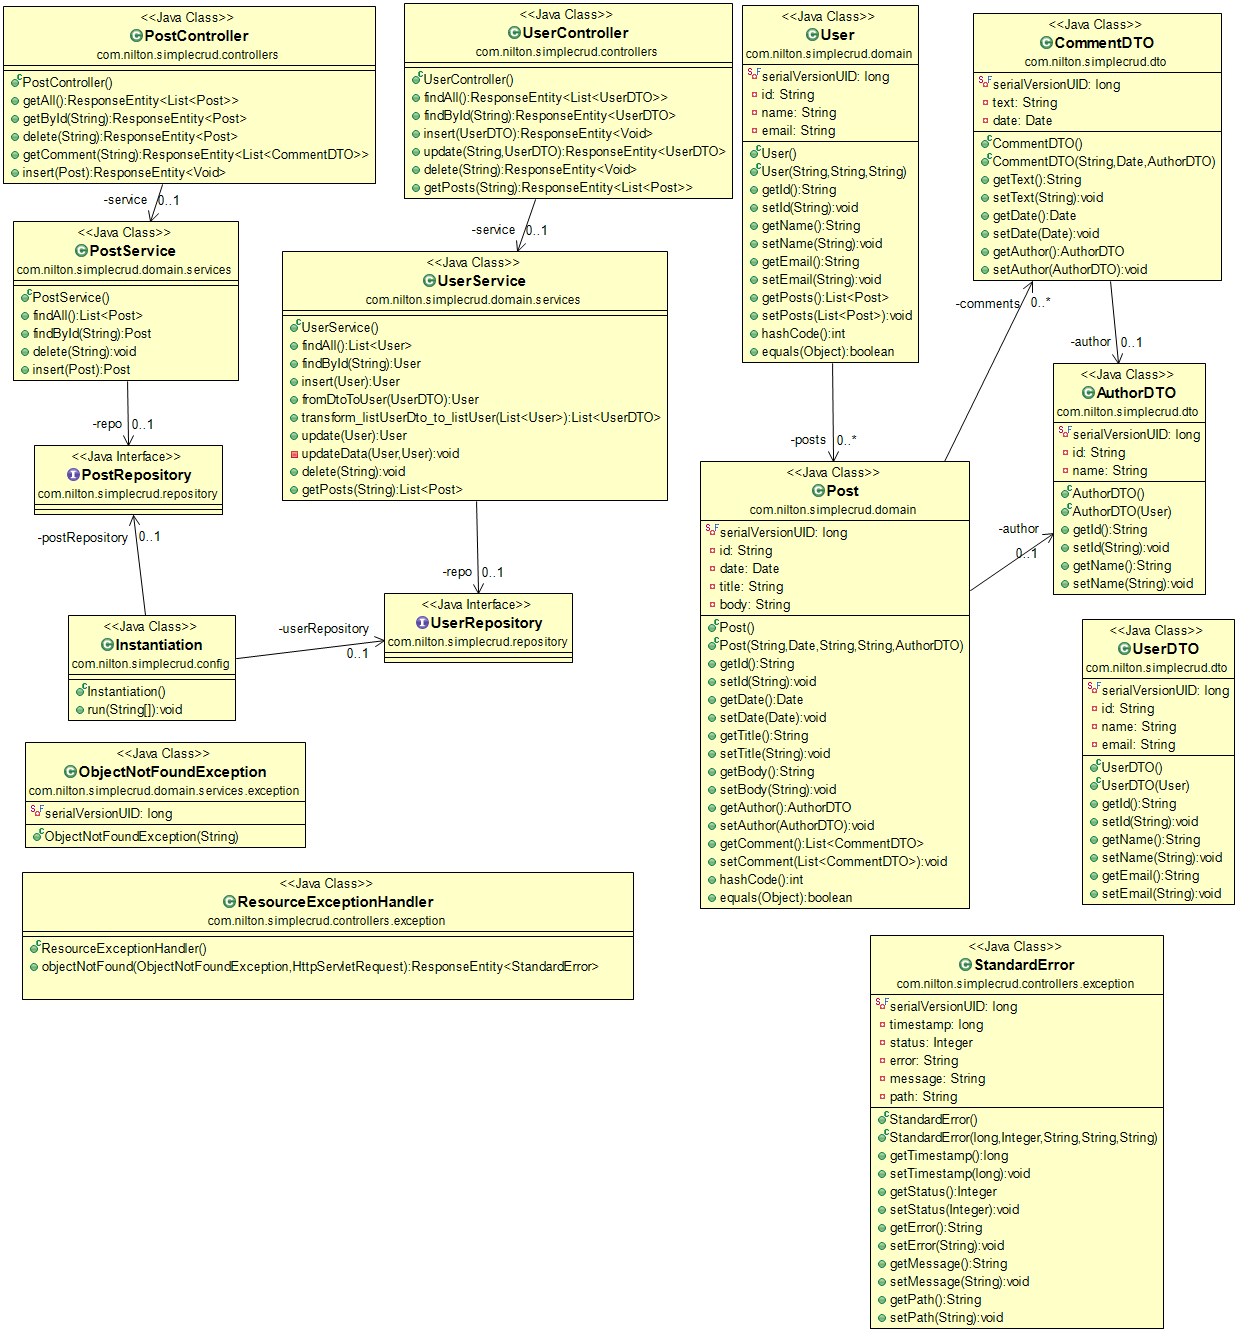
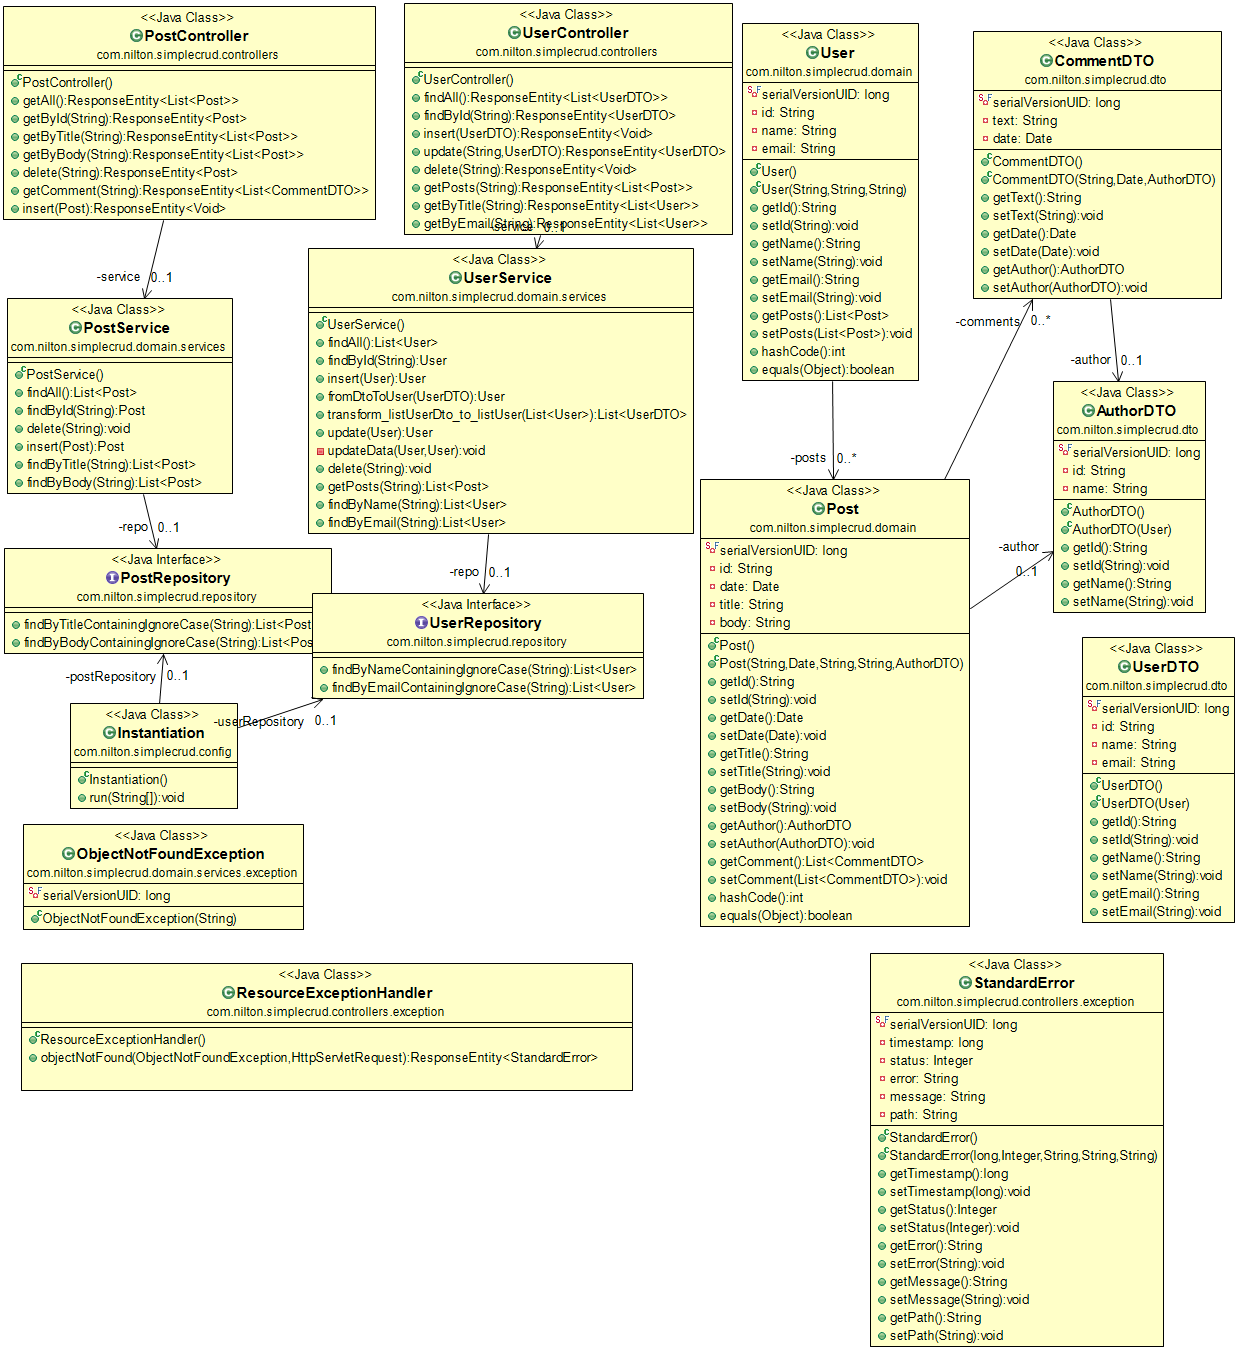
new query methods for the api

Changed region(s): [[0.0, 0.0, 1.0, 1.0]]

diff --git a/src/main/java/com/nilton/simplecrud/controllers/UserController.java b/src/main/java/com/nilton/simplecrud/controllers/UserController.java
@@ -9,9 +9,11 @@ import org.springframework.web.bind.annotation.PathVariable;
 import org.springframework.web.bind.annotation.RequestBody;
 import org.springframework.web.bind.annotation.RequestMapping;
 import org.springframework.web.bind.annotation.RequestMethod;
+import org.springframework.web.bind.annotation.RequestParam;
 import org.springframework.web.bind.annotation.RestController;
 import org.springframework.web.servlet.support.ServletUriComponentsBuilder;
 
+import com.nilton.simplecrud.controllers.util.URL;
 import com.nilton.simplecrud.domain.Post;
 import com.nilton.simplecrud.domain.User;
 import com.nilton.simplecrud.domain.services.UserService;
@@ -62,6 +64,20 @@ public class UserController {
 	@RequestMapping(value="/{id}/posts", method=RequestMethod.GET)
 	public ResponseEntity<List<Post>> getPosts(@PathVariable String id) {
 		return ResponseEntity.ok().body(service.getPosts(id));
+	}
+	
+	@RequestMapping(value="/usersearch", method=RequestMethod.GET)
+	public ResponseEntity<List<User>> getByTitle(@RequestParam(value="text", defaultValue = "") String text) {
+		text = URL.decodeParam(text);
+		List<User> list = service.findByName(text);		
+		return ResponseEntity.ok().body(list);
+	}
+	
+	@RequestMapping(value="/emailsearch", method=RequestMethod.GET)
+	public ResponseEntity<List<User>> getByEmail(@RequestParam(value="text", defaultValue = "") String text) {
+		text = URL.decodeParam(text);
+		List<User> list = service.findByName(text);		
+		return ResponseEntity.ok().body(list);
 	}
 
 }

diff --git a/src/main/java/com/nilton/simplecrud/repository/UserRepository.java b/src/main/java/com/nilton/simplecrud/repository/UserRepository.java
@@ -1,5 +1,7 @@
 package com.nilton.simplecrud.repository;
 
+import java.util.List;
+
 import org.springframework.data.mongodb.repository.MongoRepository;
 import org.springframework.stereotype.Repository;
 
@@ -10,5 +12,9 @@ public interface UserRepository extends MongoRepository<User, String> {
 
 	// criamos esta interface para ter acesso à api, permitindo poder criar o crud de operações necessarias a cada modelo, neste caso o User.
 	
+	
+	public List<User> findByNameContainingIgnoreCase(String text);
+	
+	public List<User> findByEmailContainingIgnoreCase(String text);
 	
 }

diff --git a/src/main/java/com/nilton/simplecrud/controllers/PostController.java b/src/main/java/com/nilton/simplecrud/controllers/PostController.java
@@ -44,6 +44,13 @@ public class PostController {
 		return ResponseEntity.ok().body(list);
 	}
 	
+	@RequestMapping(value="/bodysearch", method=RequestMethod.GET)
+	public ResponseEntity<List<Post>> getByBody(@RequestParam(value="text", defaultValue = "") String text) {
+		text = URL.decodeParam(text);
+		List<Post> list = service.findByBody(text);		
+		return ResponseEntity.ok().body(list);
+	}
+	
 	@RequestMapping(value="/{id}", method=RequestMethod.DELETE)
 	public ResponseEntity<Post> delete(@PathVariable String id) {
 		service.delete(id);

diff --git a/src/main/java/com/nilton/simplecrud/repository/PostRepository.java b/src/main/java/com/nilton/simplecrud/repository/PostRepository.java
@@ -14,4 +14,6 @@ public interface PostRepository extends MongoRepository<Post, String> {
 	// implementacao de query methods
 	// disponível em (https://docs.spring.io/spring-data/mongodb/docs/current/reference/html/#repositories.query-methods)
 	public List<Post> findByTitleContainingIgnoreCase(String text);
+	
+	public List<Post> findByBodyContainingIgnoreCase(String text);
 }

diff --git a/src/main/java/com/nilton/simplecrud/domain/services/UserService.java b/src/main/java/com/nilton/simplecrud/domain/services/UserService.java
@@ -72,5 +72,13 @@ public class UserService {
 		return u.getPosts();
 	}
 	
+	
+	public List<User> findByName(String name) {
+		return repo.findByNameContainingIgnoreCase(name);
+	}
+	
+	public List<User> findByEmail(String email) {
+		return repo.findByEmailContainingIgnoreCase(email);
+	}
 
 }

diff --git a/src/main/java/com/nilton/simplecrud/domain/services/PostService.java b/src/main/java/com/nilton/simplecrud/domain/services/PostService.java
@@ -40,4 +40,8 @@ public class PostService {
 		return repo.findByTitleContainingIgnoreCase(text);
 	}
 	
+	public List<Post> findByBody(String text){
+		return repo.findByBodyContainingIgnoreCase(text);
+	}
+	
 }
